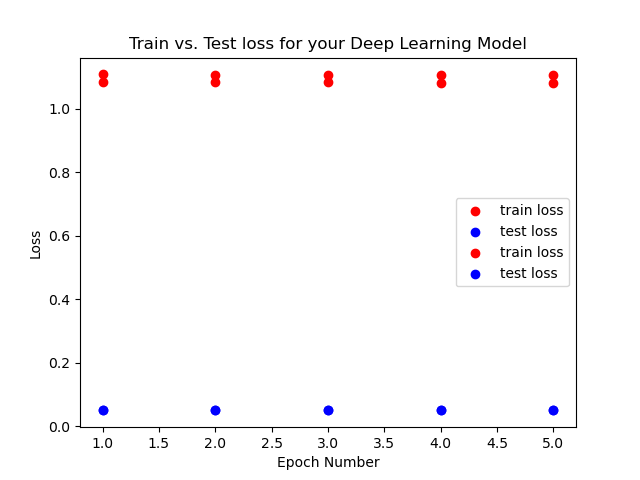
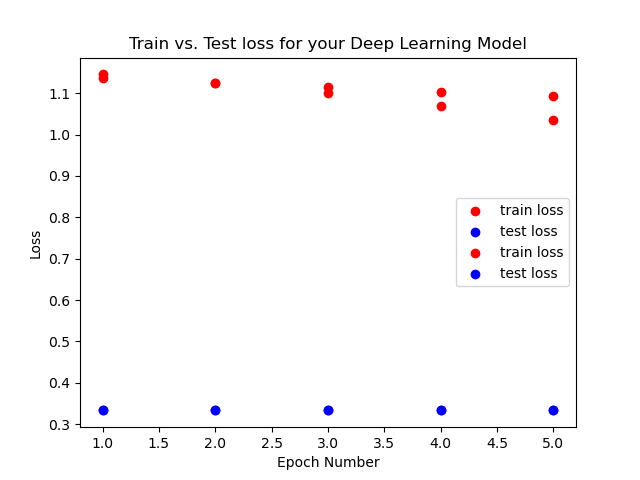
Fix on labels, stacking of values, picture embedding

diff --git a/frontend/playground-frontend/src/components/TrainButton.js b/frontend/playground-frontend/src/components/TrainButton.js
@@ -1,4 +1,4 @@
-import React from "react";
+import React, { useState } from "react";
 import PropTypes from "prop-types";
 import RectContainer from "./RectContainer";
 import { COLORS, GENERAL_STYLES } from "../constants";
@@ -18,6 +18,8 @@ const TrainButton = (props) => {
     testSize,
     set_dl_results_data,
   } = props;
+
+  const [backgroundColor, setBackgroundColor] = useState(COLORS.dark_blue);
 
   const make_user_arch = () => {
     // making a user_arch array by including all added layers and their parameters to make something like:
@@ -62,7 +64,11 @@ const TrainButton = (props) => {
     return false;
   };
 
-  const onClick = async() => {
+  const onClick = async () => {
+    setBackgroundColor((currentColor) =>
+      currentColor === COLORS.dark_blue ? COLORS.gold : COLORS.dark_blue
+    );
+
     const user_arch = make_user_arch();
     if (!validateInputs(user_arch)) return;
 
@@ -88,7 +94,7 @@ const TrainButton = (props) => {
   };
 
   return (
-    <RectContainer style={styles.container}>
+    <RectContainer style={{ ...styles.container, backgroundColor }}>
       <button style={styles.button} onClick={onClick}>
         Train!
       </button>
@@ -114,7 +120,6 @@ export default TrainButton;
 
 const styles = {
   container: {
-    backgroundColor: COLORS.dark_blue,
     padding: 0,
     width: 130,
     height: 70,

diff --git a/frontend/playground-frontend/src/Home.js b/frontend/playground-frontend/src/Home.js
@@ -1,12 +1,5 @@
 import React, { useState, useEffect } from "react";
-import {
-  COLORS,
-  GENERAL_STYLES,
-  LAYOUT,
-  ACC_VIZ,
-  LOSS_VIZ,
-  CLASSICAL_ML_CONFUSION_MATRIX,
-} from "./constants";
+import { COLORS, GENERAL_STYLES, LAYOUT } from "./constants";
 import {
   BOOL_OPTIONS,
   OPTIMIZER_NAMES,
@@ -29,6 +22,9 @@ import { CRITERIONS } from "./settings";
 import { DndProvider } from "react-dnd";
 import { HTML5Backend } from "react-dnd-html5-backend";
 import DataTable from "react-data-table-component";
+import LOSS_VIZ from "./visualization_output/my_loss_plot.png";
+import ACC_VIZ from "./visualization_output/my_accuracy_plot.png";
+// import CLASSICAL_ML_CONFUSION_MATRIX from "./visualization_output/confusion_matrix.png";
 
 const _TitleText = (props) => {
   const { text } = props;
@@ -215,6 +211,9 @@ const Home = () => {
         columns={csvDataToColumns(dl_results_data)}
         data={dl_results_data}
       />
+
+      <img src={ACC_VIZ} alt="ACC Viz" />
+      <img src={LOSS_VIZ} alt="ACC Viz" />
     </div>
   );
 };

diff --git a/frontend/playground-frontend/src/constants.js b/frontend/playground-frontend/src/constants.js
@@ -3,7 +3,8 @@ export const COLORS = {
   layer: "#CD7BFF",
   addLayer: "#F2ECFF",
   background: "#F6F6FF",
-  dark_blue: "#003057",
+  dark_blue: "#003058",
+  gold: "#B3A36A",
 };
 
 export const LAYOUT = {
@@ -32,11 +33,3 @@ export const GENERAL_STYLES = {
 export const ITEM_TYPES = {
   NEW_LAYER: "new_layer",
 };
-
-// Vis output paths must be the same as in backend/constants.py
-export const LOSS_VIZ =
-    "../frontend/playground-frontend/src/visualization_output/my_loss_plot.png",
-  ACC_VIZ =
-    "../frontend/playground-frontend/src/visualization_output/my_accuracy_plot.png",
-  CLASSICAL_ML_CONFUSION_MATRIX =
-    "../frontend/playground-frontend/src/visualization_output/confusion_matrix.png";

diff --git a/frontend/playground-frontend/src/settings.js b/frontend/playground-frontend/src/settings.js
@@ -10,12 +10,14 @@ export const POSSIBLE_LAYERS = [
   {
     display_name: "ReLU",
     object_name: "nn.ReLU",
-    parameters: [],
+    parameters: {},
   },
   {
     display_name: "Softmax",
     object_name: "nn.Softmax",
-    parameters: [],
+    parameters: {
+      inputSize: { index: 0, parameter_name: "dim" },
+    },
   },
 ];
 

diff --git a/backend/utils.py b/backend/utils.py
@@ -76,21 +76,23 @@ def get_dataloaders(
 
 def generate_loss_plot(results_path):
     """
-    Given train/test loss from the training phase, plot the loss in a matplotlib plot
+    Given a training result file, plot the loss in a matplotlib plot
     Args:
-        train_loss (list): train loss per epoch
-        test_loss (list): test loss per epoch
+        results_path(str): path to csv file containing training result
     """
     results = pd.read_csv(results_path)
     train_loss = results[TRAIN_LOSS]
     test_loss = results[TEST_LOSS]
-
     assert len(train_loss) == len(test_loss)
     plt.figure("Loss Plot")
+    plt.clf()
     x_axis = [i for i in range(1, len(train_loss) + 1)]
     plt.scatter(x_axis, train_loss, c="r", label="train loss")
     plt.scatter(x_axis, test_loss, c="b", label="test loss")
-    plt.legend()
+    #get unique labels for legend
+    handles, labels = plt.gca().get_legend_handles_labels()
+    by_label = dict(zip(labels, handles))
+    plt.legend(by_label.values(), by_label.keys())
     plt.title("Train vs. Test loss for your Deep Learning Model")
     plt.xlabel("Epoch Number")
     plt.ylabel("Loss")
@@ -99,24 +101,27 @@ def generate_loss_plot(results_path):
 
 def generate_acc_plot(results_path):
     """
-    Given train/test loss from the training phase, plot the accuracy in a matplotlib plot
+    Given training result file, plot the accuracy in a matplotlib plot
     Args:
-        train_loss (list): train loss per epoch
-        test_loss (list): test loss per epoch
+        results_path(str): path to csv file containing training result
     """
     results = pd.read_csv(results_path)
     train_acc = results[TRAIN_ACC]
     val_acc = results[VAL_TEST_ACC]
     assert len(train_acc) == len(val_acc)
     plt.figure("Accuracy Plot")
+    plt.clf()
     x_axis = [i for i in range(1, len(train_acc) + 1)]
     plt.scatter(x_axis, train_acc, c="r", label="train accuracy")
     plt.scatter(x_axis, val_acc, c="b", label="test accuracy")
-    plt.legend()
+    #get unique labels for legend
+    handles, labels = plt.gca().get_legend_handles_labels()
+    by_label = dict(zip(labels, handles))
+    plt.legend(by_label.values(), by_label.keys())
     plt.title("Train vs. Test accuracy for your Deep Learning Model")
     plt.xlabel("Epoch Number")
     plt.ylabel("Accuracy")
-    plt.savefig(ACC_VIZ)
+    plt.savefig(ACC_VIZ) 
 
 
 def generate_train_time_csv(epoch_time):

diff --git a/backend/dl_eval.py b/backend/dl_eval.py
@@ -15,7 +15,7 @@ def compute_accuracy(predicted, actual):
     NOTE: Since we have our training data in "batch form", we will be getting an accuracy for each batch in the dataloader
     """
     prediction = torch.argmax(
-        predicted, dim=1
+        predicted, dim=-1
     )  # identify index of the most likely class
 
     performance = torch.where(
